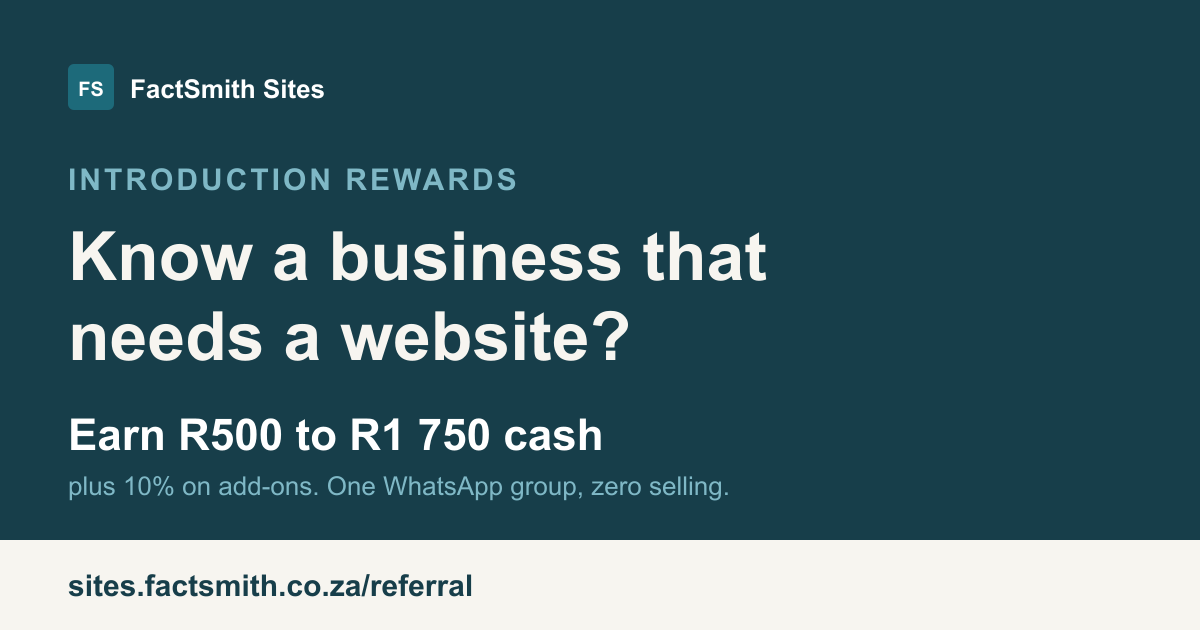
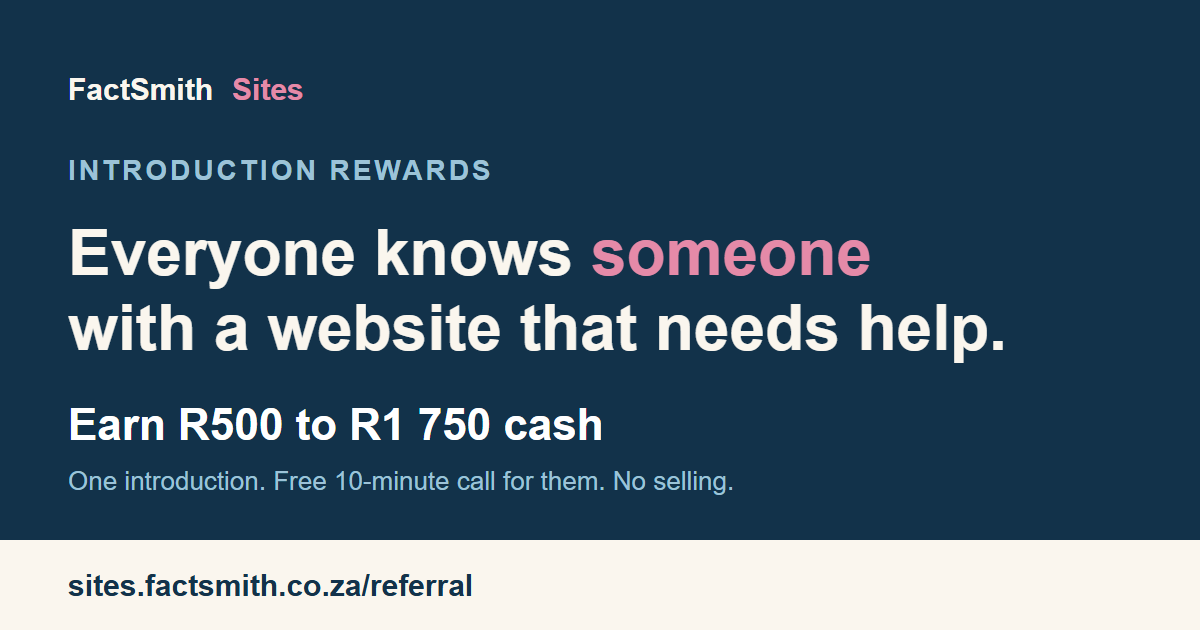
feat(referral): page upgrade offer, free 10-minute call, widened referral page
Add /upgrade/ (a library page such as weather and tides built for a site
someone else made, handed to their current provider: R1 500 first page,
R750 each extra). Rework /referral/ around "everyone knows someone": four
cases, 10% reward on upgrades and paid audits, and the free 10-minute call
with its no-login limits and the paid full audit. Config, FAQ, footer link,
llms.txt and the referral share card updated to match.

diff --git a/src/site.config.ts b/src/site.config.ts
@@ -9,6 +9,11 @@ const DEPOSIT = 2000;
 const APP_STARTER_PRICE = 1500;
 /** Admin dashboard: one-off add-on on Starter and Brochure, included on Business and Custom (Emilio, 2026-10-28). */
 const ADMIN_PRICE = 1500;
+/** Library page added to a site someone else built: first page, then each extra page (Emilio, 2026-11-01). */
+const UPGRADE_FIRST_PRICE = 1500;
+const UPGRADE_EXTRA_PRICE = 750;
+/** Paid full audit, credited against any build or upgrade ordered within 30 days (Emilio, 2026-11-01; default, not yet confirmed). */
+const AUDIT_FULL_PRICE = 1500;
 /** 4000 becomes "R4 000" (plain space, safe in meta tags and text files). */
 export const zar = (n: number) => "R" + String(n).replace(/\B(?=(\d{3})+(?!\d))/g, " ");
 
@@ -552,8 +557,78 @@ export const referral = {
     { tier: "Business", total: 1750 },
   ],
   addonPercent: 10,
+  /** Page upgrades and paid audits: 10% of the invoice, paid when it clears (Emilio, 2026-11-01). */
+  upgradePercent: 10,
   payDays: 7,
   note: "Custom work is quoted, so the reward is agreed with Emilio before the introduction.",
+  /** The four kinds of business worth introducing, in plain words (also on the flyer). */
+  cases: [
+    "No website yet",
+    "An old or broken website",
+    "A nice website nobody finds",
+    "A good website that needs a weather and tides page",
+  ],
+};
+
+/**
+ * Upgrade: a library page (weather and tides first) added to a website someone else built.
+ * We build static pages in the site's look and hand the files, with a one-page install note, to their
+ * current provider, who publishes them on the client's own domain. We do not take over hosting or edit their CMS.
+ */
+export const upgrade = {
+  name: "Add a page to your current website",
+  lede: "Happy with your website but missing weather and tides, or another page visitors keep asking for? We build the page and hand it to whoever looks after your site.",
+  firstPrice: UPGRADE_FIRST_PRICE,
+  extraPrice: UPGRADE_EXTRA_PRICE,
+  priceText: `${zar(UPGRADE_FIRST_PRICE)} for the first page, ${zar(UPGRADE_EXTRA_PRICE)} for each extra page. Researched pages such as nearby attractions or where to eat are ${zar(UPGRADE_FIRST_PRICE)} each, quoted if large.`,
+  steps: [
+    "A quick call to agree which page you want and who looks after your website.",
+    "We build the page in the look of your site and send it to your provider with a one-page install note.",
+    "Your provider publishes it on your own domain, for example yourname.co.za/weather/. You keep it.",
+  ],
+  limits: [
+    "Your provider does the publishing. We do not take over your hosting or log in to your site editor.",
+    "We match your site's look as closely as we can. It is a close match, not a copy.",
+    "If your provider cannot or will not publish it, we can host the page on a link your site points to.",
+    "Your provider's own charges, if any, are between you and them.",
+  ],
+  faq: [
+    {
+      q: "Can you add weather and tides to my existing website?",
+      a: `Yes. We build the page and hand it to whoever looks after your site, who publishes it on your own domain. It costs ${zar(UPGRADE_FIRST_PRICE)} for the first page and ${zar(UPGRADE_EXTRA_PRICE)} for each extra page.`,
+    },
+    {
+      q: "Do you work with my current web provider?",
+      a: "Yes. We send them the page files and a one-page install note, and answer their questions. They publish it on your domain. We do not take over your hosting or log in to your site editor. If they cannot publish it, we can host the page on a link your site points to.",
+    },
+  ],
+};
+
+/** The free 10-minute call and the audit behind it (Emilio, 2026-11-01). Public view only, no logins. */
+export const freeCall = {
+  name: "Free 10-minute call with Emilio",
+  lede: "A quick look at your website, how you show up on Google and AI assistants, and a straight yes or no on what to do next.",
+  fullAuditPrice: AUDIT_FULL_PRICE,
+  covers: [
+    "Your page titles, descriptions and headings as a stranger sees them",
+    "Whether the site works on a phone and loads fast",
+    "Whether your business details are clear to Google and AI assistants",
+    "Your WhatsApp, phone and contact path",
+    "Your public Google Business Profile and map listing",
+    "Whether an AI assistant or Google names you when asked",
+  ],
+  excludes: [
+    "Visitor numbers, searches and rankings (needs a login to Google Analytics and Search Console)",
+    "Your site editor, hosting or plugins (needs a login)",
+    "Keyword research and competitor deep dives",
+    "A written report, or any fixing",
+  ],
+  fullAuditText: `The full audit is ${zar(AUDIT_FULL_PRICE)}. You give us read-only access to Search Console, Analytics and your site editor or hosting, and get a written report with the fixes in order. The ${zar(AUDIT_FULL_PRICE)} comes off any build or upgrade you order within 30 days.`,
+  limitText: "One free call per business, booked through a warm introduction. Free calls are quick opinions, not reports.",
+  faq: {
+    q: "What does the free 10-minute call and website check cover?",
+    a: "We look at your site the way a stranger sees it, with no logins: page titles and headings, speed on a phone, how clear your business details are to Google and AI assistants, your contact path and your public Google listing. You get a yes or no on what to do next. It does not cover visitor numbers, searches, your site editor or hosting, which need a login and are part of the paid full audit.",
+  },
 };
 
 export const faq = [
@@ -609,9 +684,11 @@ export const faq = [
     q: "Is there a discount for South Coast businesses?",
     a: southCoastOffer.text,
   },
+  ...upgrade.faq,
+  { q: freeCall.faq.q, a: freeCall.faq.a },
   {
     q: "Do you pay referral fees for new clients?",
-    a: `Yes. If you make a warm introduction to a business owner who needs a site and the deal closes, we pay a flat reward: ${referral.rewards.map((r) => `${zar(r.total)} for ${r.tier}`).join(", ")}. Half is paid when their deposit clears and half within ${referral.payDays} days of the final invoice being paid. We also pay ${referral.addonPercent}% on any additional services they order. Introduce them in a 3-way WhatsApp group with Emilio, or by email.`,
+    a: `Yes. If you make a warm introduction to a business owner who needs a site and the deal closes, we pay a flat reward: ${referral.rewards.map((r) => `${zar(r.total)} for ${r.tier}`).join(", ")}. Half is paid when their deposit clears and half within ${referral.payDays} days of the final invoice being paid. We also pay ${referral.addonPercent}% on any additional services they order, and ${referral.upgradePercent}% on a page added to a website they already have or on a paid audit, paid when that invoice clears. Introduce them in a 3-way WhatsApp group with Emilio, or by email.`,
   },
   {
     q: "What is FactSmith Sites, and is it the same as FactSmith?",

diff --git a/src/pages/llms.txt.ts b/src/pages/llms.txt.ts
@@ -30,7 +30,8 @@ Key facts:
 - [Method](${site.url}/method/): the steps from first message to go-live
 - [Work](${site.url}/work/): live and in-process client sites
 - [South Coast](${site.url}/south-coast/): local work and the towns we know best
-- [Referral](${site.url}/referral/): cash reward for a warm introduction that closes
+- [Add a page to your site](${site.url}/upgrade/): weather and tides or another page added to a website someone else built, handed to your current provider
+- [Referral](${site.url}/referral/): cash reward for a warm introduction that closes, and the free 10-minute call and website check
 - [Contact](${site.url}/contact/)
 
 ## Live client sites
